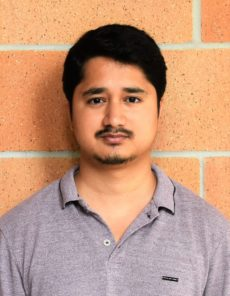
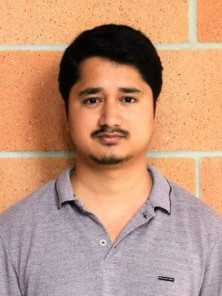
updated page (advisory board, fixed pics)
Added advisory board, fixed titles and pics.

diff --git a/README.md b/README.md
@@ -8,7 +8,7 @@ In this workshop, we aim to address the trustworthy issues of Multimedia Computi
 <div style="display: flex">
   <div style="width:22.5%">
     <a href="https://www.ceessnoek.info/">
-    <img alt="Cees Snoek" src="pics/cees.jpg">
+    <img alt="Cees Snoek" src="pics/cees2.jpg">
     </a><br>
     <a href="https://www.ceessnoek.info/">Cees Snoek</a><br>
     University of Amsterdam
@@ -19,7 +19,7 @@ In this workshop, we aim to address the trustworthy issues of Multimedia Computi
   
   <div style="width:22.5%">
     <a href="https://web.eecs.umich.edu/~kuipers/">
-    <img alt="Benjamin Kuipers" src="pics/benjamin.jpg">
+    <img alt="Benjamin Kuipers" src="pics/benjamin2.jpg">
     </a><br>
   <a href="https://web.eecs.umich.edu/~kuipers/">Benjamin Kuipers</a><br>
     University of Michigan
@@ -41,7 +41,7 @@ In this workshop, we aim to address the trustworthy issues of Multimedia Computi
   
   <div style="width:22.5%">
     <a href="https://ajmalsaeed.net/">
-    <img alt="Ajmal Mian" src="pics/ajmal.png">
+    <img alt="Ajmal Mian" src="pics/ajmal2.png">
     </a><br>
     <a href="https://ajmalsaeed.net/">Ajmal Mian</a><br>
     University of Western Australia
@@ -62,7 +62,7 @@ In this workshop, we aim to address the trustworthy issues of Multimedia Computi
   
   <div style="width:22.5%">
     <a href="https://www.yf.io/">
-    <img alt="Fisher Yu" src="pics/fisher.png">
+    <img alt="Fisher Yu" src="pics/fisher_yu.jpeg">
     </a><br>
   <a href="https://www.yf.io/">Fisher Yu</a><br>
     ETH Zurich
@@ -121,7 +121,7 @@ The accepted workshop papers will be published in the ACM Digital Library.
 <div style="display: flex">
   <div style="width:22.5%">
     <a href="http://people.rennes.inria.fr/Teddy.Furon/website/Welcome.html">
-    <img alt="Teddy Furon" src="pics/teddy.jpeg">
+    <img alt="Teddy Furon" src="pics/teddy2.jpeg">
     </a><br>
     <a href="http://people.rennes.inria.fr/Teddy.Furon/website/Welcome.html">Teddy Furon</a><br>
     INRIA
@@ -132,7 +132,7 @@ The accepted workshop papers will be published in the ACM Digital Library.
   
   <div style="width:22.5%">
     <a href="http://www.cs.ucf.edu/~liujg/">
-    <img alt="Jingen Liu" src="pics/jingen.jpg">
+    <img alt="Jingen Liu" src="pics/jingen2.jpg">
     </a><br>
   <a href="http://www.cs.ucf.edu/~liujg/">Jingen Liu</a><br>
     JD.com 
@@ -147,14 +147,14 @@ The accepted workshop papers will be published in the ACM Digital Library.
     <img alt="Yogesh Rawat" src="pics/rawat.jpg">
     </a><br>
   <a href="https://www.crcv.ucf.edu/person/rawat/">Yogesh Rawat</a><br>
-    University of Central Florida
+    University of Central Florida (UCF)
   </div>
 </div>
 
 <div style="display: flex">
   <div style="width:22.5%">
     <a href="http://wzhang.fun/">
-    <img alt="Wei Zhang" src="pics/wei.jpg">
+    <img alt="Wei Zhang" src="pics/wei2.jpg">
     </a><br>
     <a href="http://wzhang.fun/">Wei Zhang</a><br>
     JD.com
@@ -165,13 +165,22 @@ The accepted workshop papers will be published in the ACM Digital Library.
   
   <div style="width:22.5%">
     <a href="https://www-users.cs.umn.edu/~qzhao/index.html">
-    <img alt="Qi Zhao" src="pics/qi.jpg">
+    <img alt="Qi Zhao" src="pics/qi2.jpg">
     </a><br>
   <a href="https://www-users.cs.umn.edu/~qzhao/index.html">Qi Zhao</a><br>
-    Microsoft Research
+    University of Minnesota (UMN)
   </div>
 
 </div>
+
+## Advisory Board
+
+| --- | --- |
+| Prof. Mohan Kankanhalli | National University of Singapore, Singapore  |
+| Prof. Jiebo Luo | University of Rochester, USA |
+| Dr. Tao Mei | JD.com AI Research, China |
+| Prof. Mubarak Shah | University of Central Florida, USA |
+| Dr. Bowen Zhou | JD.com AI Research, China |
 
 ## Program Committee
 
